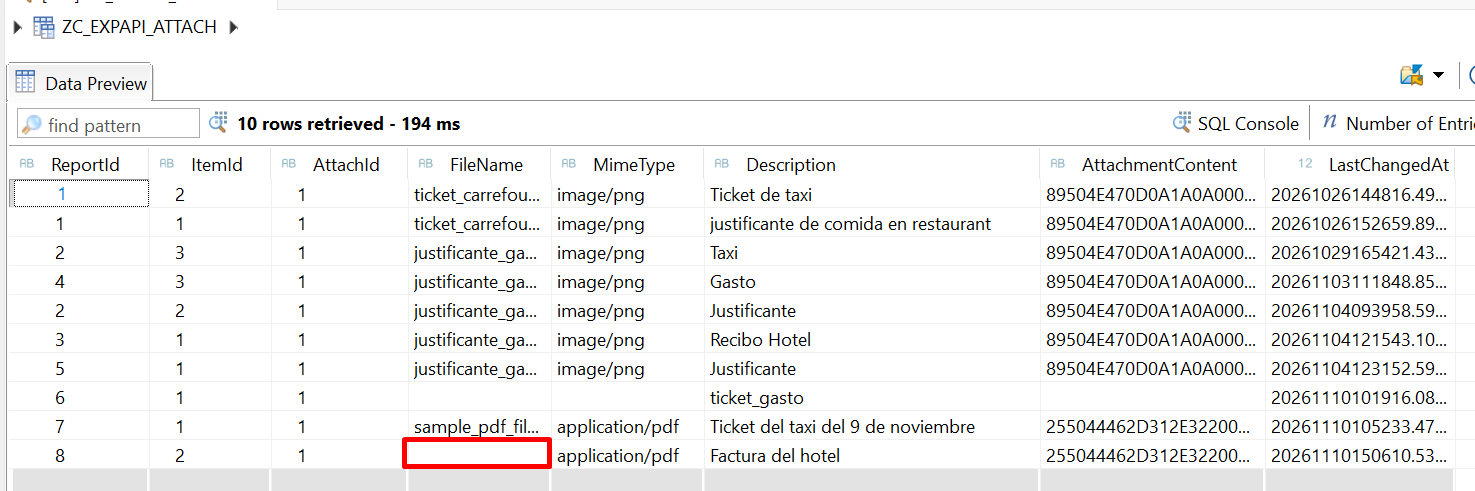
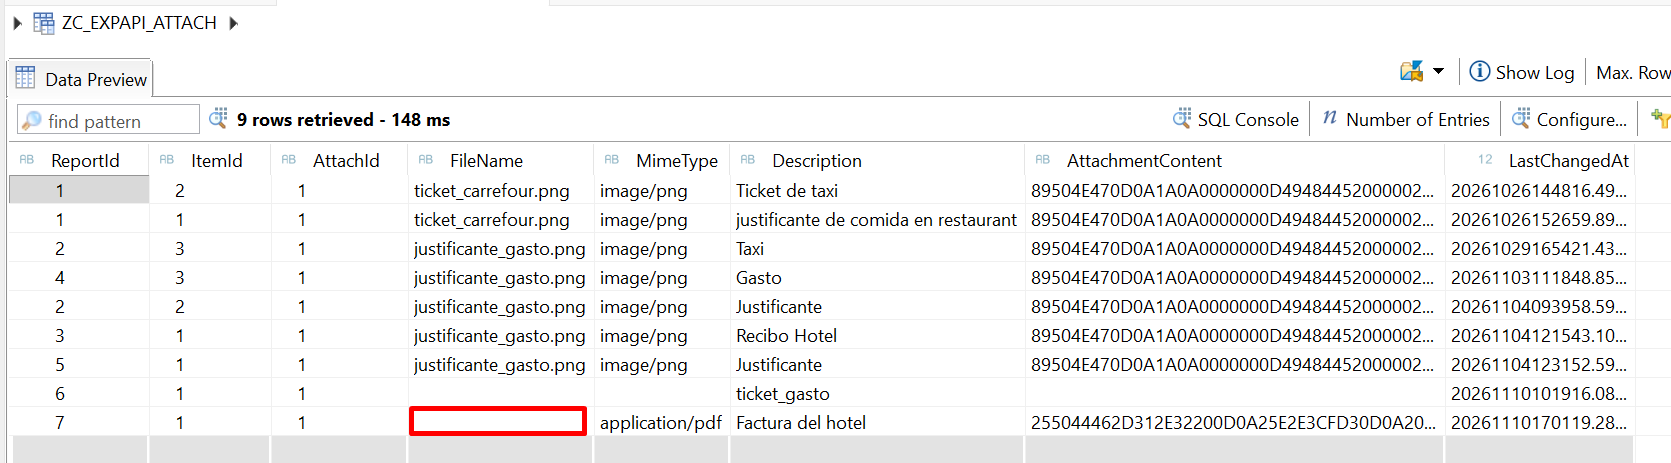
Expense Api

diff --git a/BTP ejercicios/15. EXPENSE API/README.md b/BTP ejercicios/15. EXPENSE API/README.md
@@ -124,6 +124,8 @@ Las escrituras (`POST`, `PATCH`, `PUT`, `DELETE`) llevan además `X-CSRF-Token`.
 
 ![PUT binario](img/03-1-put-binario.png)
 
+Tras el PUT: hay contenido y MimeType, pero FileName vacío
+
 ![Tras el PUT: hay contenido y MimeType, pero FileName vacío](img/03-1-put-borra-filename-adt.png)
 
 **STAR**
@@ -134,13 +136,13 @@ Las escrituras (`POST`, `PATCH`, `PUT`, `DELETE`) llevan además `X-CSRF-Token`.
 
 ### 3.2 Nombre (PATCH)
 
-`PATCH {BASE_V4}/ExpenseAttachment(ReportId='%20%20%20%20%20%20%20%208',ItemId='%20%20%20%202',AttachId='%20%20%20%201')` ✅
+`PATCH {BASE_V4}/ExpenseAttachment(ReportId='%20%20%20%20%20%20%20%207',ItemId='%20%20%20%201',AttachId='%20%20%20%201')` ✅
 
 - Headers: `Content-Type: application/json` (sin `/AttachmentContent` en la URL)
 
 ```json
 {
-  "FileName": "factura_hotel_cleopatra.pdf"
+  "FileName": "Factura del hotel.pdf"
 }
 ```
 
